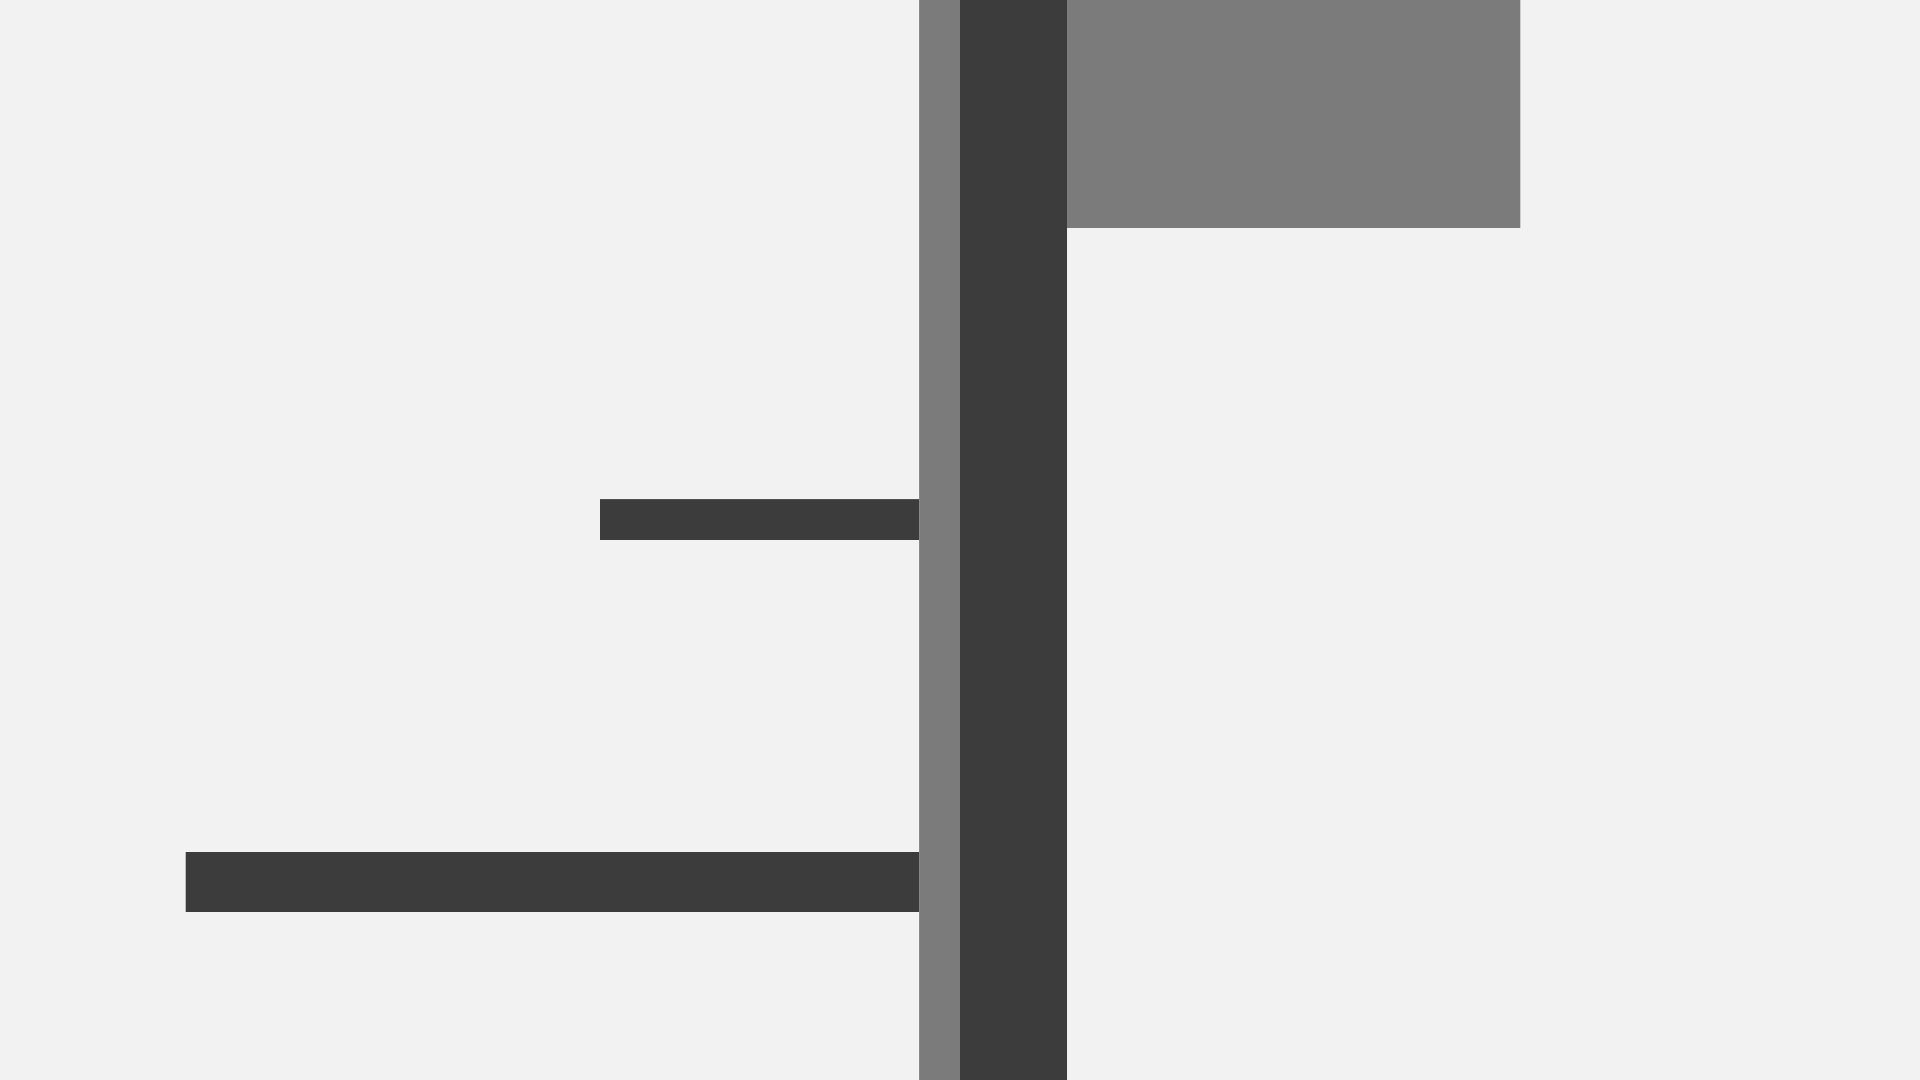
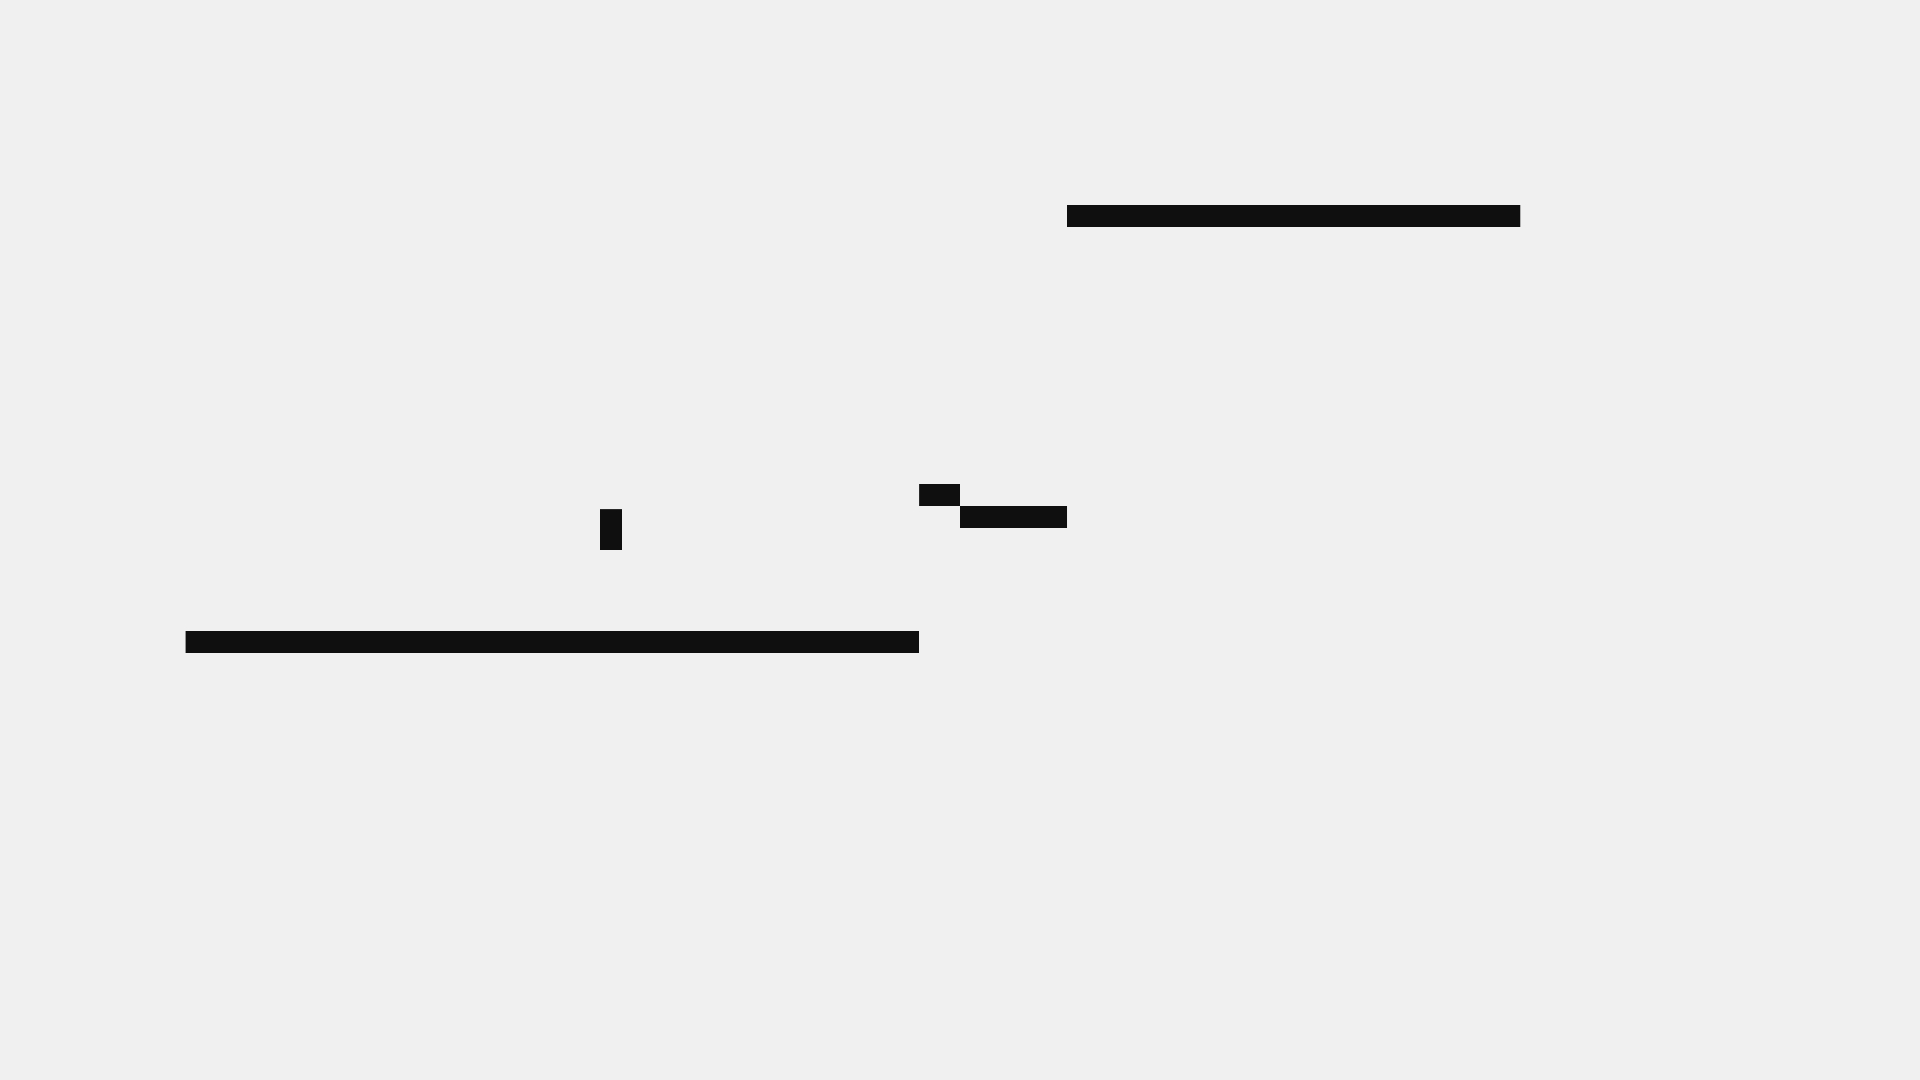
x

Changed region(s): [[0.0938, 0.0, 0.8125, 1.0]]

diff --git a/css/main.css b/css/main.css
@@ -8,8 +8,8 @@
   /* 1.618*2 */
   --ColorWhiteA: hsl(0, 0%, 93.528%);
   /* 100-6.472 */
-  --ColorWhiteB: hsl(0, 0%, 96.764%);
-  /* 100-3.236 */
+  --ColorWhiteB: hsl(0, 0%, 90.292%);
+  /* 1.618*6-100  */
   /*-------------FontSize -- Perfect Fifth (1.500) Base Size 22px------------- */
   --FontD: 375.89px;
   --FontH1: 250.59px;
@@ -19,6 +19,17 @@
   --FontH5: 49.50px;
   --FontParagraph: 33px;
   --FontSubtitle: 22px;
+  /*-------------GoldenRatio (1.618) (Viewport Width 1920px)------------- */
+  --GoldenRatio1: 1920px;
+  --GoldenRatio2: 1186.65px;
+  --GoldenRatio3: 733.41px;
+  --GoldenRatio4: 453.28px;
+  --GoldenRatio5: 280.15px;
+  --GoldenRatio6: 173.15px;
+  --GoldenRatio7: 107.01px;
+  --GoldenRatio8: 66.14px;
+  --GoldenRatio9: 40.88px;
+  --GoldenRatio10: 25.27px;
 }
 
 ::-webkit-scrollbar {
@@ -43,16 +54,16 @@ body {
 #wrapper {
   width: 100vw;
   height: 100vh;
-  /* background: url(../img/DoraLayout.jpg); */
-  /* background: url(../img/iCodeAyushLayout.jpg); */
+  /* background: url(../img/LandingPageLayout.jpg); */
   /* background: url(../img/SlideLayout.jpg); */
+  /* background: url(../img/iCodeAyushLayout.jpg); */
   background-size: cover;
 }
 
 #wrapper #logo {
   position: absolute;
-  left: 5.5%;
-  top: 9.8%;
+  left: var(--GoldenRatio7);
+  top: var(--GoldenRatio7);
   -webkit-text-fill-color: transparent;
 }
 
@@ -77,9 +88,9 @@ body {
 
 #wrapper nav {
   position: absolute;
-  right: 5.5%;
-  top: 9.8%;
-  width: 23.6%;
+  right: var(--GoldenRatio7);
+  top: var(--GoldenRatio7);
+  width: var(--GoldenRatio4);
   display: flex;
   justify-content: space-between;
 }
@@ -180,7 +191,7 @@ body {
 
 #wrapper #ScrollDown {
   position: absolute;
-  bottom: 9.8%;
+  bottom: var(--GoldenRatio7);
   width: 100vw;
   display: flex;
   justify-content: center;
@@ -197,7 +208,7 @@ body {
   position: absolute;
   right: 50%;
   height: 100vh;
-  width: 40.2%;
+  margin-right: var(--GoldenRatio9);
   display: flex;
   justify-content: center;
   align-items: flex-end;
@@ -209,13 +220,11 @@ body {
   font-size: var(--FontH5);
   font-weight: 700;
   color: var(--ColorDarkA);
-  padding-right: var(--FontParagraph);
 }
 
 #wrapper #slide p {
-  width: 94.5%;
-  padding-right: var(--FontParagraph);
-  padding-top: var(--FontSubtitle);
+  margin-top: var(--GoldenRatio9);
+  width: var(--GoldenRatio3);
   font-weight: 400;
   font-size: var(--FontSubtitle);
   color: var(--ColorDarkA);
@@ -225,7 +234,6 @@ body {
 #wrapper #ImageContainer {
   position: absolute;
   height: 100vh;
-  width: 40.2%;
   display: flex;
   justify-content: center;
   flex-flow: column;
@@ -233,17 +241,17 @@ body {
 }
 
 #wrapper #ImageContainer img {
-  width: 58.8%;
-  margin-left: 13.9%;
+  width: var(--GoldenRatio4);
+  margin-left: var(--GoldenRatio7);
 }
 
 #codeby {
-  height: 41.8vh;
+  height: var(--GoldenRatio4);
   width: 100vw;
   display: flex;
   justify-content: center;
   align-items: center;
-  background: hsl(0, 0%, 90%);
+  background: var(--ColorWhiteB);
 }
 
 #codeby a {
@@ -263,13 +271,24 @@ body {
 
 @media (max-width: 1920px) {
   :root {
-    --FontD: 24.472vw;
-    --FontH1: 16.314vw;
-    --FontH2: 10.876vw;
-    --FontH3: 7.251vw;
-    --FontH4: 4.834vw;
-    --FontH5: 3.223vw;
-    --FontParagraph: 2.148vw;
-    --FontSubtitle: 1.432vw;
+    --FontD: 19.578vw;
+    --FontH1: 13.052vw;
+    --FontH2: 8.701vw;
+    --FontH3: 5.801vw;
+    --FontH4: 3.867vw;
+    --FontH5: 2.578vw;
+    --FontParagraph: 1.719vw;
+    --FontSubtitle: 1.146vw;
+    /*-------------GoldenRatio (1.618) (Viewport Width 1920px)------------- */
+    --GoldenRatio1: 100vw;
+    --GoldenRatio2: 61.805vw;
+    --GoldenRatio3: 38.198vw;
+    --GoldenRatio4: 23.608vw;
+    --GoldenRatio5: 14.591vw;
+    --GoldenRatio6: 9.018vw;
+    --GoldenRatio7: 5.573vw;
+    --GoldenRatio8: 3.445vw;
+    --GoldenRatio9: 2.129vw;
+    --GoldenRatio10: 1.316vw;
   }
 }
